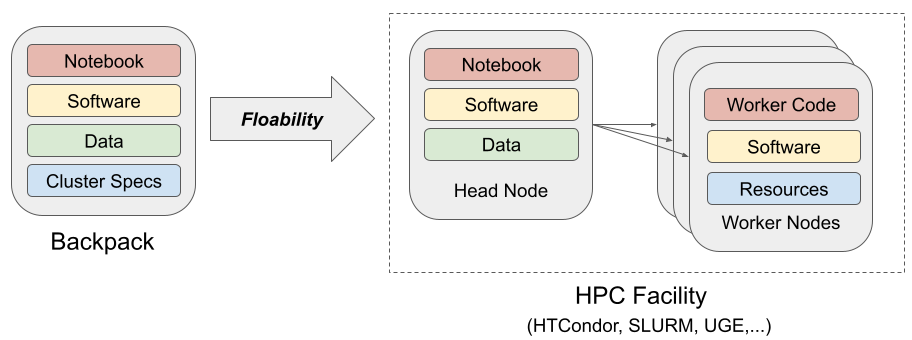
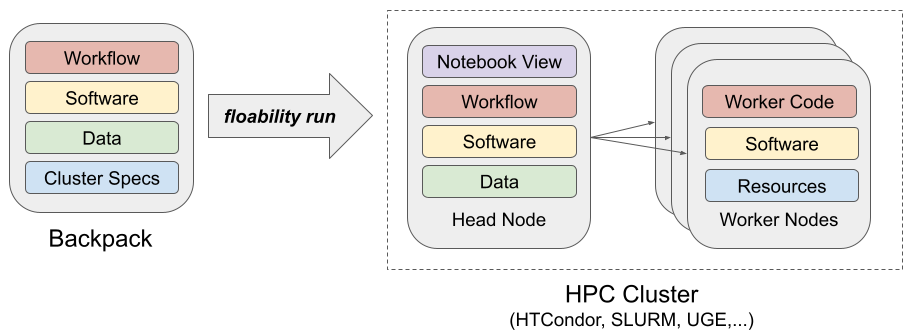
clarify figures and language to focus on workflows

diff --git a/index.html b/index.html
@@ -13,7 +13,7 @@ title: The Floability Project
 The <b>Floability Project</b> is an NSF funded research project to enable the rapid
 and portable deployment of notebooks expressing complex scientific workflows across
 a wide range of cyberinfrastructure.  The key technical challenge is that
-<b>notebooks are incomplete</b>: the code by itself cannot be moved between facilities
+<b>workflows are incomplete</b>: the code by itself cannot be moved between facilities
 without accurately capturing the software dependencies, required datasets,
 and capabilities of the underlying cluster hardware.  Our research team at
 the University of Notre Dame, the University of Missouri, and the University of Illinois
@@ -26,9 +26,9 @@ dependencies needed for complex scientific workflows.
 <center>
   
 <p>
-<font size=+2>A plain notebook by itself is not portable across facilities:</font>
+<font size=+2>A plain workflow by itself is not portable across facilities:</font>
 </p>
-<img src=images/cartoons/notebook-fail.png width=80%>
+<img src=images/cartoons/workflow-fail.png width=80%>
 
 <hr>
 
